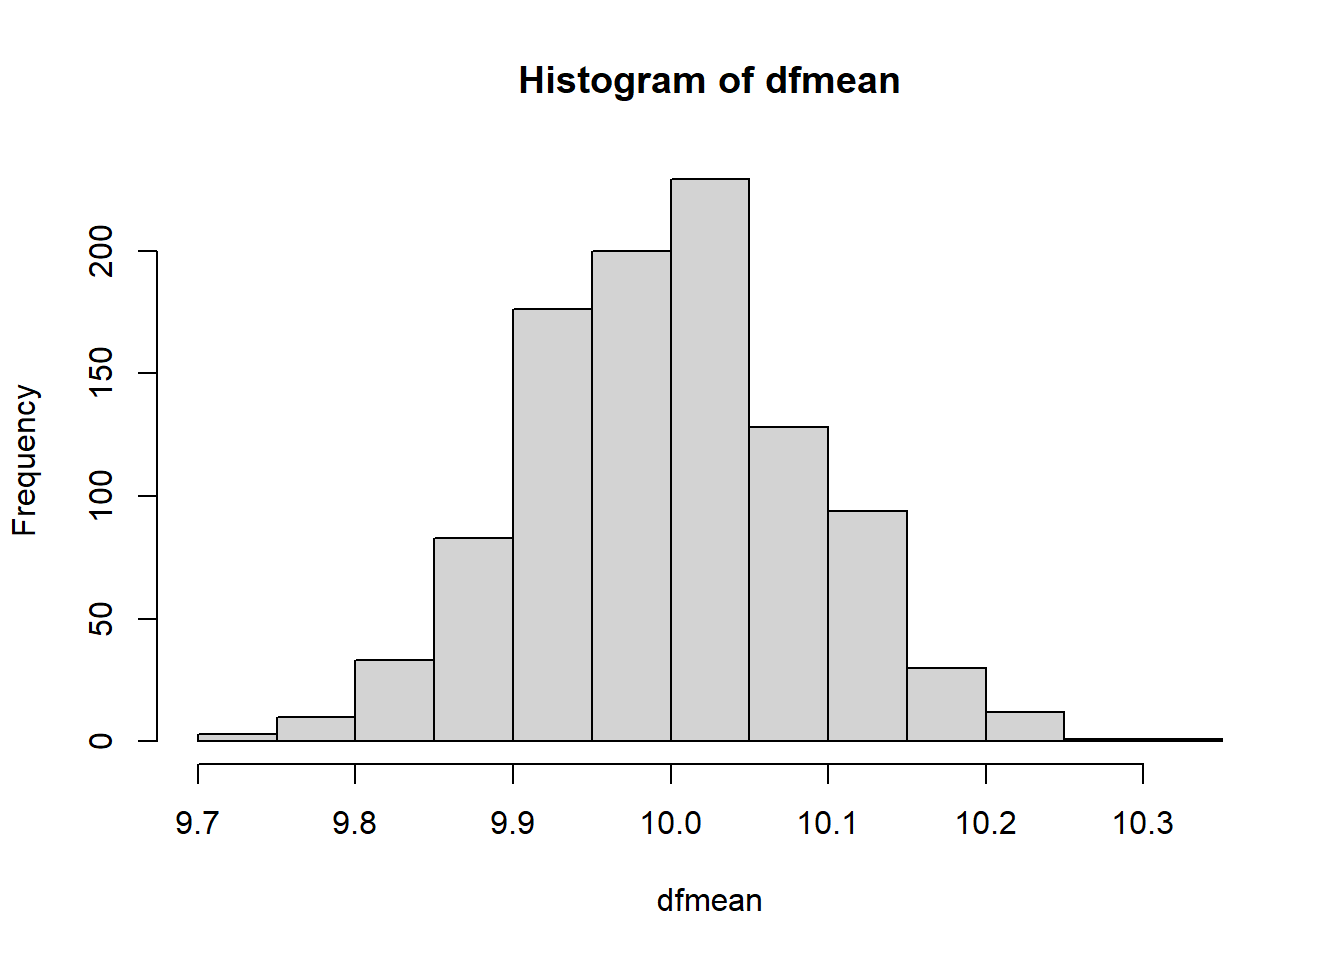
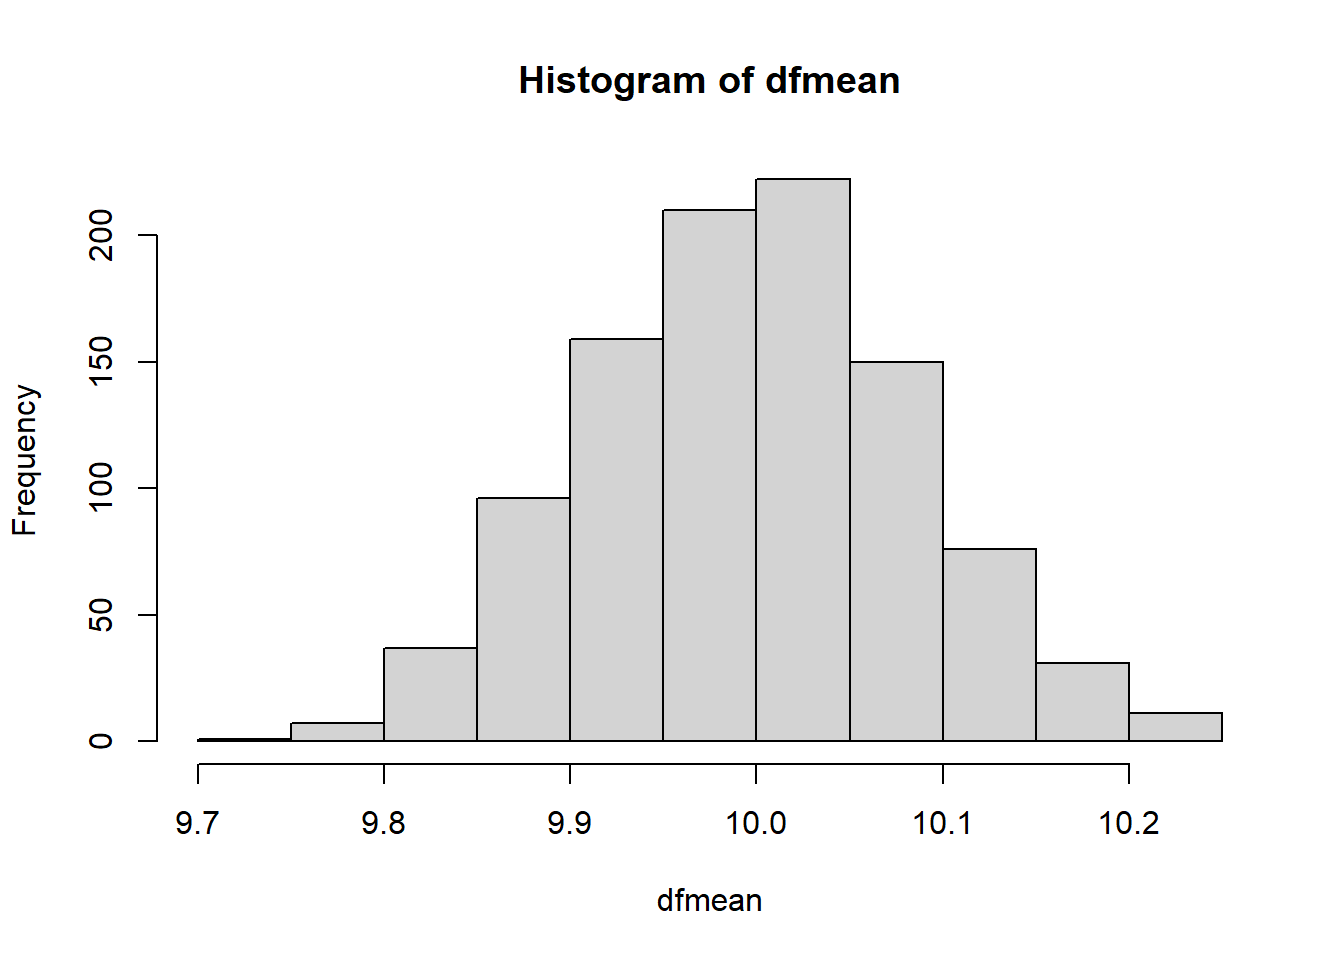
Chessboard in Python

diff --git a/Meta Analysis in SAS(r)/Meta Analysis in SAS(r).html b/Meta Analysis in SAS(r)/Meta Analysis in SAS(r).html
@@ -122,7 +122,7 @@ pre > code.sourceCode > span > a:first-child::before { text-decoration: underlin
 <p><img src="Meta-Analysis-in-SAS-r-_files/figure-html/unnamed-chunk-3-1.png" class="img-fluid" width="672"></p>
 </div>
 </div>
-<p>The histogram of <span class="math inline">\(\theta\)</span> (true value is 10) estimates, <span class="math inline">\(\hat{\theta}\)</span> with mean from 1000 simulations is 9.99739 and sampling error of 0.08945. Notice that here,</p>
+<p>The histogram of <span class="math inline">\(\theta\)</span> (true value is 10) estimates, <span class="math inline">\(\hat{\theta}\)</span> with mean from 1000 simulations is 9.99699 and sampling error of 0.08740. Notice that here,</p>
 <p><span class="math display">\[\theta = \hat{\theta} + \epsilon \]</span></p>
 <section id="between-group-standardized-mean-difference" class="level2">
 <h2 class="anchored" data-anchor-id="between-group-standardized-mean-difference">between group standardized mean difference</h2>
@@ -156,6 +156,89 @@ Effect Size Calculation for Meta Analysis
          Weight:  44.4444</code></pre>
 </div>
 </div>
+</section>
+</section>
+<section id="pooling" class="level1">
+<h1>Pooling</h1>
+<section id="fixed-effects-models" class="level2">
+<h2 class="anchored" data-anchor-id="fixed-effects-models">Fixed effects models</h2>
+<div class="cell">
+<div class="sourceCode cell-code" id="cb6"><pre class="sourceCode r code-with-copy"><code class="sourceCode r"><span id="cb6-1"><a href="#cb6-1" aria-hidden="true" tabindex="-1"></a><span class="co"># Load dmetar, esc and tidyverse (for pipe)</span></span>
+<span id="cb6-2"><a href="#cb6-2" aria-hidden="true" tabindex="-1"></a><span class="co"># https://bookdown.org/MathiasHarrer/Doing_Meta_Analysis_in_R/pooling-es.html</span></span>
+<span id="cb6-3"><a href="#cb6-3" aria-hidden="true" tabindex="-1"></a><span class="co"># remotes::install_github("MathiasHarrer/dmetar")</span></span>
+<span id="cb6-4"><a href="#cb6-4" aria-hidden="true" tabindex="-1"></a></span>
+<span id="cb6-5"><a href="#cb6-5" aria-hidden="true" tabindex="-1"></a><span class="fu">library</span>(dmetar)</span></code><button title="Copy to Clipboard" class="code-copy-button"><i class="bi"></i></button></pre></div>
+<div class="cell-output cell-output-stderr">
+<pre><code>Extensive documentation for the dmetar package can be found at: 
+ www.bookdown.org/MathiasHarrer/Doing_Meta_Analysis_in_R/</code></pre>
+</div>
+<div class="sourceCode cell-code" id="cb8"><pre class="sourceCode r code-with-copy"><code class="sourceCode r"><span id="cb8-1"><a href="#cb8-1" aria-hidden="true" tabindex="-1"></a><span class="fu">library</span>(esc)</span>
+<span id="cb8-2"><a href="#cb8-2" aria-hidden="true" tabindex="-1"></a><span class="fu">library</span>(tidyverse)</span></code><button title="Copy to Clipboard" class="code-copy-button"><i class="bi"></i></button></pre></div>
+<div class="cell-output cell-output-stderr">
+<pre><code>── Attaching core tidyverse packages ──────────────────────── tidyverse 2.0.0 ──
+✔ dplyr     1.1.2     ✔ readr     2.1.4
+✔ forcats   1.0.0     ✔ stringr   1.5.0
+✔ ggplot2   3.4.2     ✔ tibble    3.2.1
+✔ lubridate 1.9.2     ✔ tidyr     1.3.0
+✔ purrr     1.0.1     </code></pre>
+</div>
+<div class="cell-output cell-output-stderr">
+<pre><code>── Conflicts ────────────────────────────────────────── tidyverse_conflicts() ──
+✖ dplyr::filter() masks stats::filter()
+✖ dplyr::lag()    masks stats::lag()
+ℹ Use the conflicted package (&lt;http://conflicted.r-lib.org/&gt;) to force all conflicts to become errors</code></pre>
+</div>
+<div class="sourceCode cell-code" id="cb11"><pre class="sourceCode r code-with-copy"><code class="sourceCode r"><span id="cb11-1"><a href="#cb11-1" aria-hidden="true" tabindex="-1"></a><span class="co"># Load data set from dmetar</span></span>
+<span id="cb11-2"><a href="#cb11-2" aria-hidden="true" tabindex="-1"></a><span class="fu">data</span>(SuicidePrevention)</span>
+<span id="cb11-3"><a href="#cb11-3" aria-hidden="true" tabindex="-1"></a></span>
+<span id="cb11-4"><a href="#cb11-4" aria-hidden="true" tabindex="-1"></a><span class="co"># Calculate Hedges' g and the Standard Error</span></span>
+<span id="cb11-5"><a href="#cb11-5" aria-hidden="true" tabindex="-1"></a><span class="co"># - We save the study names in "study".</span></span>
+<span id="cb11-6"><a href="#cb11-6" aria-hidden="true" tabindex="-1"></a><span class="co"># - We use the pmap_dfr function to calculate the effect size</span></span>
+<span id="cb11-7"><a href="#cb11-7" aria-hidden="true" tabindex="-1"></a><span class="co">#   for each row.</span></span>
+<span id="cb11-8"><a href="#cb11-8" aria-hidden="true" tabindex="-1"></a>SP_calc <span class="ot">&lt;-</span> <span class="fu">pmap_dfr</span>(SuicidePrevention, </span>
+<span id="cb11-9"><a href="#cb11-9" aria-hidden="true" tabindex="-1"></a>                    <span class="cf">function</span>(mean.e, sd.e, n.e, mean.c,</span>
+<span id="cb11-10"><a href="#cb11-10" aria-hidden="true" tabindex="-1"></a>                             sd.c, n.c, author, ...){</span>
+<span id="cb11-11"><a href="#cb11-11" aria-hidden="true" tabindex="-1"></a>                      <span class="fu">esc_mean_sd</span>(<span class="at">grp1m =</span> mean.e,</span>
+<span id="cb11-12"><a href="#cb11-12" aria-hidden="true" tabindex="-1"></a>                                  <span class="at">grp1sd =</span> sd.e,</span>
+<span id="cb11-13"><a href="#cb11-13" aria-hidden="true" tabindex="-1"></a>                                  <span class="at">grp1n =</span> n.e,</span>
+<span id="cb11-14"><a href="#cb11-14" aria-hidden="true" tabindex="-1"></a>                                  <span class="at">grp2m =</span> mean.c,</span>
+<span id="cb11-15"><a href="#cb11-15" aria-hidden="true" tabindex="-1"></a>                                  <span class="at">grp2sd =</span> sd.c,</span>
+<span id="cb11-16"><a href="#cb11-16" aria-hidden="true" tabindex="-1"></a>                                  <span class="at">grp2n =</span> n.c,</span>
+<span id="cb11-17"><a href="#cb11-17" aria-hidden="true" tabindex="-1"></a>                                  <span class="at">study =</span> author,</span>
+<span id="cb11-18"><a href="#cb11-18" aria-hidden="true" tabindex="-1"></a>                                  <span class="at">es.type =</span> <span class="st">"g"</span>) <span class="sc">%&gt;%</span> </span>
+<span id="cb11-19"><a href="#cb11-19" aria-hidden="true" tabindex="-1"></a>                        <span class="fu">as.data.frame</span>()}) </span>
+<span id="cb11-20"><a href="#cb11-20" aria-hidden="true" tabindex="-1"></a></span>
+<span id="cb11-21"><a href="#cb11-21" aria-hidden="true" tabindex="-1"></a><span class="co"># Let us catch a glimpse of the data</span></span>
+<span id="cb11-22"><a href="#cb11-22" aria-hidden="true" tabindex="-1"></a><span class="co"># The data set contains Hedges' g ("es") and standard error ("se")</span></span>
+<span id="cb11-23"><a href="#cb11-23" aria-hidden="true" tabindex="-1"></a><span class="fu">glimpse</span>(SP_calc)</span></code><button title="Copy to Clipboard" class="code-copy-button"><i class="bi"></i></button></pre></div>
+<div class="cell-output cell-output-stdout">
+<pre><code>Rows: 9
+Columns: 9
+$ study       &lt;chr&gt; "Berry et al.", "DeVries et al.", "Fleming et al.", "Hunt …
+$ es          &lt;dbl&gt; -0.14279447, -0.60770928, -0.11117965, -0.12698011, -0.392…
+$ weight      &lt;dbl&gt; 46.09784, 34.77314, 14.97625, 32.18243, 24.52054, 54.50431…
+$ sample.size &lt;dbl&gt; 185, 146, 60, 129, 100, 220, 120, 80, 107
+$ se          &lt;dbl&gt; 0.1472854, 0.1695813, 0.2584036, 0.1762749, 0.2019459, 0.1…
+$ var         &lt;dbl&gt; 0.02169299, 0.02875783, 0.06677240, 0.03107286, 0.04078214…
+$ ci.lo       &lt;dbl&gt; -0.4314686, -0.9400826, -0.6176413, -0.4724727, -0.7882811…
+$ ci.hi       &lt;dbl&gt; 0.145879624, -0.275335960, 0.395282029, 0.218512440, 0.003…
+$ measure     &lt;chr&gt; "g", "g", "g", "g", "g", "g", "g", "g", "g"</code></pre>
+</div>
+</div>
+<div class="cell">
+<div class="sourceCode cell-code" id="cb13"><pre class="sourceCode r code-with-copy"><code class="sourceCode r"><span id="cb13-1"><a href="#cb13-1" aria-hidden="true" tabindex="-1"></a><span class="co"># Calculate the inverse variance-weights for each study</span></span>
+<span id="cb13-2"><a href="#cb13-2" aria-hidden="true" tabindex="-1"></a>SP_calc<span class="sc">$</span>w <span class="ot">&lt;-</span> <span class="dv">1</span><span class="sc">/</span>SP_calc<span class="sc">$</span>se<span class="sc">^</span><span class="dv">2</span></span>
+<span id="cb13-3"><a href="#cb13-3" aria-hidden="true" tabindex="-1"></a></span>
+<span id="cb13-4"><a href="#cb13-4" aria-hidden="true" tabindex="-1"></a><span class="co"># Then, we use the weights to calculate the pooled effect</span></span>
+<span id="cb13-5"><a href="#cb13-5" aria-hidden="true" tabindex="-1"></a>pooled_effect <span class="ot">&lt;-</span> <span class="fu">sum</span>(SP_calc<span class="sc">$</span>w<span class="sc">*</span>SP_calc<span class="sc">$</span>es)<span class="sc">/</span><span class="fu">sum</span>(SP_calc<span class="sc">$</span>w)</span>
+<span id="cb13-6"><a href="#cb13-6" aria-hidden="true" tabindex="-1"></a>pooled_effect</span></code><button title="Copy to Clipboard" class="code-copy-button"><i class="bi"></i></button></pre></div>
+<div class="cell-output cell-output-stdout">
+<pre><code>[1] -0.2311121</code></pre>
+</div>
+</div>
+</section>
+<section id="random-effects-model" class="level2">
+<h2 class="anchored" data-anchor-id="random-effects-model">Random effects model</h2>
 </section>
 </section>
 
